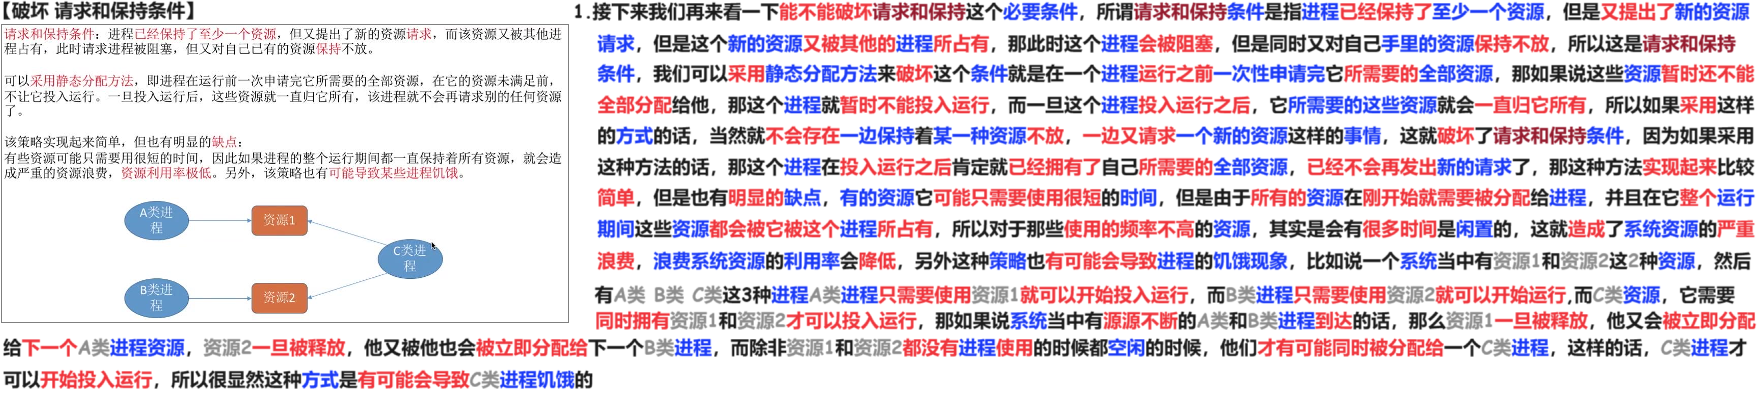
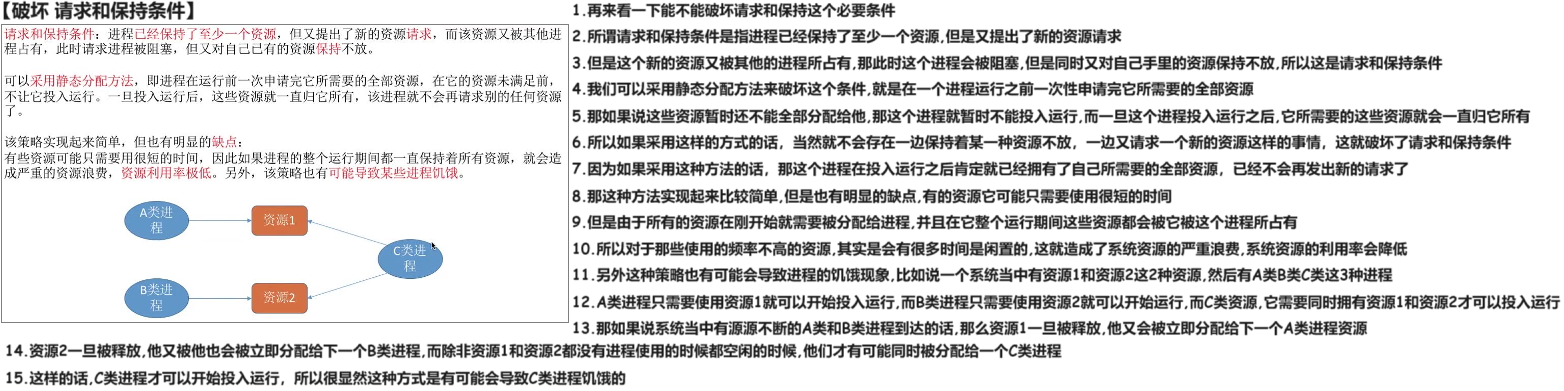
240714

diff --git a/01 初试/01 OS/02 24 25 王道/01 基础/02 进程 线程/04 死锁/02 死锁 处理策略 预防死锁 240714/01 消化/02 Doc.md b/01 初试/01 OS/02 24 25 王道/01 基础/02 进程 线程/04 死锁/02 死锁 处理策略 预防死锁 240714/01 消化/02 Doc.md
@@ -16,19 +16,19 @@
 
 # 03 破坏 不剥夺条件
 
-
+<img src="https://cvp.oss-cn-shanghai.aliyuncs.com/picgo/202407141729407.png" alt="image-20240714172913114" style="zoom:50%;" />
 
 
 
 # 04 破坏 请求和保持条件
 
-<img src="https://cvp.oss-cn-shanghai.aliyuncs.com/picgo/202405091458891.png" alt="image-20240509145814706" style="zoom:50%;" />
+<img src="https://cvp.oss-cn-shanghai.aliyuncs.com/picgo/202407141736380.png" alt="image-20240714173627266" style="zoom:50%;" />
 
 
 
 # 05 破坏 循环等待条件
 
-<img src="https://cvp.oss-cn-shanghai.aliyuncs.com/picgo/202405091528606.png" alt="image-20240509152804405" style="zoom:50%;" />
+
 
 
 
